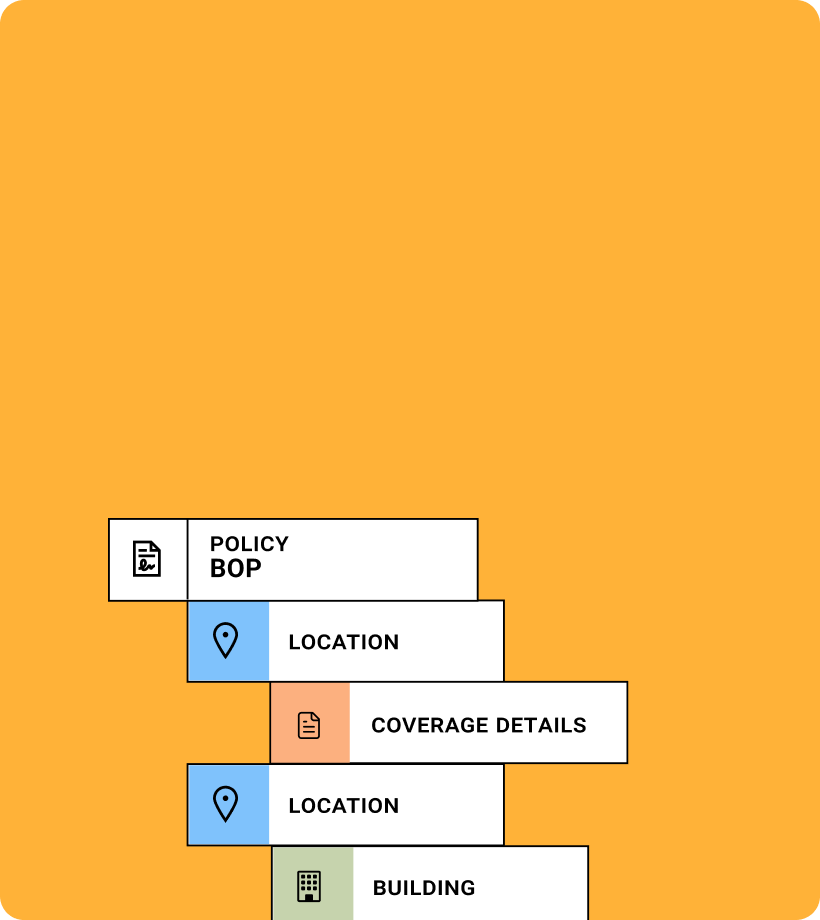
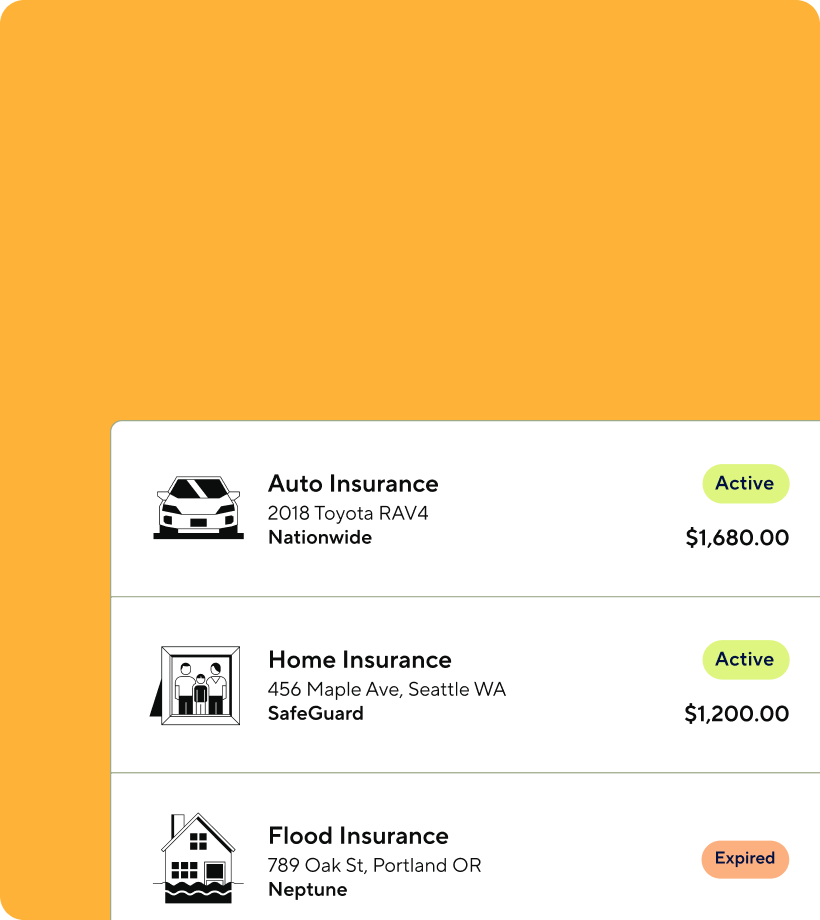
Update contact email sitewide, fix hero padding bug, sync Bro'd Trip case study to latest doc (commit history screenshot, closing paragraph, Two Attempts copy and stat placement, consistent text color)

diff --git a/brod-trip.html b/brod-trip.html
@@ -89,7 +89,7 @@
 
   h2 { font-size: 23px; font-weight: 600; letter-spacing: -0.01em; margin: 56px 0 16px; }
   p { font-size: 16px; line-height: 1.7; color: var(--ink); margin-bottom: 16px; }
-  p.soft { color: var(--ink-soft); }
+  p.soft { color: var(--ink); }
 
   ul.decision-list { list-style: none; margin: 0 0 20px; padding: 0; display: flex; flex-direction: column; gap: 14px; }
   ul.decision-list li { font-size: 15.5px; color: var(--ink); padding-left: 20px; position: relative; line-height: 1.6; }
@@ -117,7 +117,7 @@
   .quote cite { font-size: 13px; font-weight: 600; color: var(--ink-soft); font-style: normal; }
 
   .reflection { padding-top: 28px; border-top: 1px solid var(--line); margin: 8px 0 20px; }
-  .reflection p { margin-bottom: 0; font-size: 16.5px; color: var(--ink-soft); }
+  .reflection p { margin-bottom: 0; font-size: 16.5px; color: var(--ink); }
 
   .case-nav-footer { max-width: 720px; margin: 40px auto 0; padding: 32px 32px 0; border-top: 1px solid var(--line); display: flex; justify-content: space-between; align-items: center; }
   .case-nav-footer a { font-size: 14px; font-weight: 600; color: var(--ink); text-decoration: none; }
@@ -141,6 +141,7 @@
   .attempt-step.failed { opacity: 0.55; }
   .attempt-step .step-label { font-size: 12px; font-weight: 600; text-transform: uppercase; letter-spacing: 0.04em; color: var(--ink-soft); margin-bottom: 6px; }
   .attempt-step .step-detail { font-size: 14.5px; color: var(--ink); font-weight: 600; line-height: 1.4; }
+  .attempt-step .step-note { font-size: 13px; color: var(--ink-soft); font-weight: 400; line-height: 1.5; margin-top: 5px; }
   .attempt-arrow { display: flex; align-items: center; justify-content: center; width: 44px; color: var(--case-color); font-size: 18px; background: var(--bg); flex-shrink: 0; }
 </style>
 </head>
@@ -206,30 +207,34 @@
       <div class="attempt-step failed">
         <div class="step-label">Attempt 1</div>
         <div class="step-detail">15 posts by hand, then stopped</div>
+        <div class="step-note">Too manual to keep up with 244</div>
       </div>
       <div class="attempt-arrow">→</div>
       <div class="attempt-step">
         <div class="step-label">Attempt 2</div>
-        <div class="step-detail">248 files with Claude Code</div>
+        <div class="step-detail">244 posts with Claude Code</div>
+        <div class="step-note">Adapted through rate limits and a mid-project fetch restriction</div>
       </div>
     </div>
 
-    <p>The first attempt was straightforward: rebuild it exactly how it was, hosted on WordPress, one post at a time. Fifteen posts in, it was clear that pace wasn't going to get through 244 posts. I stopped.</p>
-    <p>The second attempt started with Claude Code as the core tool instead of the whole process. Feed it a Wayback Machine URL, and it crawls the archived post, pulls the content, and returns a clean static HTML file. Running at roughly $20 a month in Claude usage, that approach got through the bulk of the archive, rate limits and all, until Anthropic restricted outbound fetching to the Wayback Machine mid-project. The fix was to download the archived HTML locally instead and feed the files in directly, one more adjustment in a project already defined by working with whatever survived. The full rebuild, including a cleanup pass across all 248 files (the 244 posts plus the about and sponsors pages), wrapped up the project.</p>
-    <p class="soft">About 40% of the original images couldn't be recovered from the archive at all. Instead of a gap, each of those gets a placeholder: a note that the photo was lost, its original filename, and whatever caption survived in the metadata, so a missing photo still reads as a known gap instead of a broken page.</p>
-
-    <h2>The Commit History</h2>
-    <p>Claude Code did more than fetch pages. It restructured templates, rewrote the fetch pipeline when the restriction hit, and ran the cleanup pass across all 248 files. Some of the later updates went through VS Code directly, Claude open next to the code, each change reviewed before it got pushed.</p>
-    <div class="placeholder-box" style="display:none;">Commit history screenshot goes here</div> <!-- temporarily hidden, unhide when screenshot is ready -->
+    <p>The first attempt was straightforward: rebuild it exactly how it was, hosted on WordPress, one post at a time. Fifteen posts in, it was clear that pace wasn't going to get through 244 posts. I ran out of steam.</p>
+    <p>The second attempt started with Claude Code as the core tool instead of the whole process. Feed it a Wayback Machine URL, and it crawls the archived post, pulls the content, and returns a clean static HTML file. Running at roughly $20 a month in Claude usage, that approach got through the bulk of the archive, rate limits and all, until Anthropic restricted outbound fetching to the Wayback Machine mid-project. The fix was to download the archived HTML locally instead and feed the files in directly. Fifteen posts had been enough to stop me once. It wasn't happening twice.</p>
+    <p>The full rebuild, including a cleanup pass across all 248 files (the 244 posts plus the about and sponsors pages), wrapped up the project.</p>
 
     <div class="highlight">
       <div class="h-label"><span class="spark">✦</span> By the numbers</div>
       <div class="h-line">244 posts rebuilt · 196 fully recovered · ~60% of images recovered</div>
     </div>
 
+    <p class="soft">About 40% of the original images couldn't be recovered from the archive at all. Instead of a gap, each of those gets a placeholder: a note that the photo was lost, its original filename, and whatever caption survived in the metadata, so a missing photo still reads as a known gap instead of a broken page.</p>
+
+    <h2>The Commit History</h2>
+    <p>Claude Code did more than fetch pages. It restructured templates, rewrote the fetch pipeline when the restriction hit, and ran the cleanup pass across all 248 files. Some of the later updates went through VS Code directly, Claude open next to the code, each change reviewed before it got pushed.</p>
+    <img class="screen-photo" src="assets/Broad_Study_Body_002.png" alt="A GitHub commit history for the project, showing commits co-authored by Allyson Fricke and Claude, including 'Improve In the News page,' 'Add staggered card animation and four micro-interactions,' and 'Add staggered fade-in animation to post cards.'">
+
     <h2>Where This Leaves It</h2>
     <div class="reflection">
-      <p>This one is smaller than the rest of this portfolio on purpose. It started as a favor for my husband, not a business problem, and it stayed that way the whole way through. What it does show is real: Claude Code as a genuine part of how the work got done, from the first crawl to the last file in the cleanup pass, not a tool I dabbled with once. If the question is whether I'm comfortable writing and shipping real code with AI in the loop, this is the answer.</p>
+      <p>This might just be a personal project, but it shows how I actually love to work: Claude Code and VS Code as a real part of how I get things done. My husband got his road trip back. I got an excuse to build a website for fun.</p>
     </div>
 
     <img class="screen-photo" src="assets/brod-trip-linkedin.png" alt="A LinkedIn post from Adam Fricke about the recovered blog, quote-shared by Allyson Fricke describing the project as trying to recover the past, with a preview of the rebuilt Bro'd Trip site attached.">
@@ -247,7 +252,7 @@
   <div class="connect-label">Connect with me</div>
   <div class="links">
     <a href="https://www.linkedin.com/in/allysonkate/" target="_blank" rel="noopener" title="LinkedIn">in</a>
-    <a href="mailto:allysonkatew@gmail.com" title="Email">@</a>
+    <a href="mailto:allysonfricke@gmail.com" title="Email">@</a>
   </div>
 </footer>
 

diff --git a/index.html b/index.html
@@ -409,7 +409,6 @@
 
   <header>
     <a href="#" class="brand">
-      <span class="mark">✱</span>
       <div class="name">allyson</div>
     </a>
     <nav>
@@ -424,7 +423,7 @@
   </header>
 
   <section class="intro">
-    <div class="status-line"><span class="dot"></span> Product Designer</div>
+    <div class="status-line">Product Designer</div>
     <h1>I turn technical requirements and compliance forms into something a real person can make sense of.</h1>
     <p class="meta-line">10+ years in design, the last 5+ as a product designer in insurance and fintech. Currently based in Nashville. 🪕</p>
   </section>
@@ -494,7 +493,7 @@
         </div>
         <div class="chat-messages" id="chat-messages">
           <div class="msg-bubble">Think I'd be a good fit for your team?</div>
-          <div class="msg-bubble">Here's my email: allysonkatew@gmail.com</div>
+          <div class="msg-bubble">Here's my email: allysonfricke@gmail.com</div>
           <div class="msg-bubble">Or find me on <a href="https://www.linkedin.com/in/allysonkate/" target="_blank" rel="noopener" class="bubble-link">LinkedIn</a> 👋</div>
         </div>
       </div>
@@ -506,7 +505,7 @@
     <div class="connect-label">Connect with me</div>
     <div class="links">
       <a href="https://www.linkedin.com/in/allysonkate/" target="_blank" rel="noopener" title="LinkedIn">in</a>
-      <a href="mailto:allysonkatew@gmail.com" title="Email">@</a>
+      <a href="mailto:allysonfricke@gmail.com" title="Email">@</a>
     </div>
   </footer>
 
@@ -566,7 +565,7 @@
 (function () {
   var btn = document.getElementById('copyEmailBtn');
   if (!btn) return;
-  var email = 'allysonkatew@gmail.com';
+  var email = 'allysonfricke@gmail.com';
   var resetTimer;
   btn.addEventListener('click', function () {
     function showCopied() {

diff --git a/about.html b/about.html
@@ -224,7 +224,6 @@
 
   <header>
     <a href="index.html" class="brand">
-      <span class="mark">✱</span>
       <div class="name">allyson</div>
     </a>
     <nav>
@@ -251,7 +250,7 @@
 
     <p>Originally from the Midwest, I'm currently based in Nashville, TN. Outside of work, you can find me printing on century-old letterpress machines, the one corner of my life software updates haven't found yet.</p>
 
-    <p class="closing">Connect with me on <a href="https://www.linkedin.com/in/allysonkate/" target="_blank" rel="noopener">LinkedIn</a> or send me an <a href="mailto:allysonkatew@gmail.com">email</a>. I'd love to chat!</p>
+    <p class="closing">Connect with me on <a href="https://www.linkedin.com/in/allysonkate/" target="_blank" rel="noopener">LinkedIn</a> or send me an <a href="mailto:allysonfricke@gmail.com">email</a>. I'd love to chat!</p>
   </section>
 
   <section class="experience-wrap">
@@ -301,7 +300,7 @@
     <div class="connect-label">Connect with me</div>
     <div class="links">
       <a href="https://www.linkedin.com/in/allysonkate/" target="_blank" rel="noopener" title="LinkedIn">in</a>
-      <a href="mailto:allysonkatew@gmail.com" title="Email">@</a>
+      <a href="mailto:allysonfricke@gmail.com" title="Email">@</a>
     </div>
   </footer>
 

diff --git a/client-portal.html b/client-portal.html
@@ -327,7 +327,7 @@
   <div class="connect-label">Connect with me</div>
   <div class="links">
     <a href="https://www.linkedin.com/in/allysonkate/" target="_blank" rel="noopener" title="LinkedIn">in</a>
-    <a href="mailto:allysonkatew@gmail.com" title="Email">@</a>
+    <a href="mailto:allysonfricke@gmail.com" title="Email">@</a>
   </div>
 </footer>
 

diff --git a/magpie.html b/magpie.html
@@ -257,7 +257,7 @@
   <div class="connect-label">Connect with me</div>
   <div class="links">
     <a href="https://www.linkedin.com/in/allysonkate/" target="_blank" rel="noopener" title="LinkedIn">in</a>
-    <a href="mailto:allysonkatew@gmail.com" title="Email">@</a>
+    <a href="mailto:allysonfricke@gmail.com" title="Email">@</a>
   </div>
 </footer>
 

diff --git a/qbs-commercial.html b/qbs-commercial.html
@@ -419,7 +419,7 @@
   <div class="connect-label">Connect with me</div>
   <div class="links">
     <a href="https://www.linkedin.com/in/allysonkate/" target="_blank" rel="noopener" title="LinkedIn">in</a>
-    <a href="mailto:allysonkatew@gmail.com" title="Email">@</a>
+    <a href="mailto:allysonfricke@gmail.com" title="Email">@</a>
   </div>
 </footer>
 
